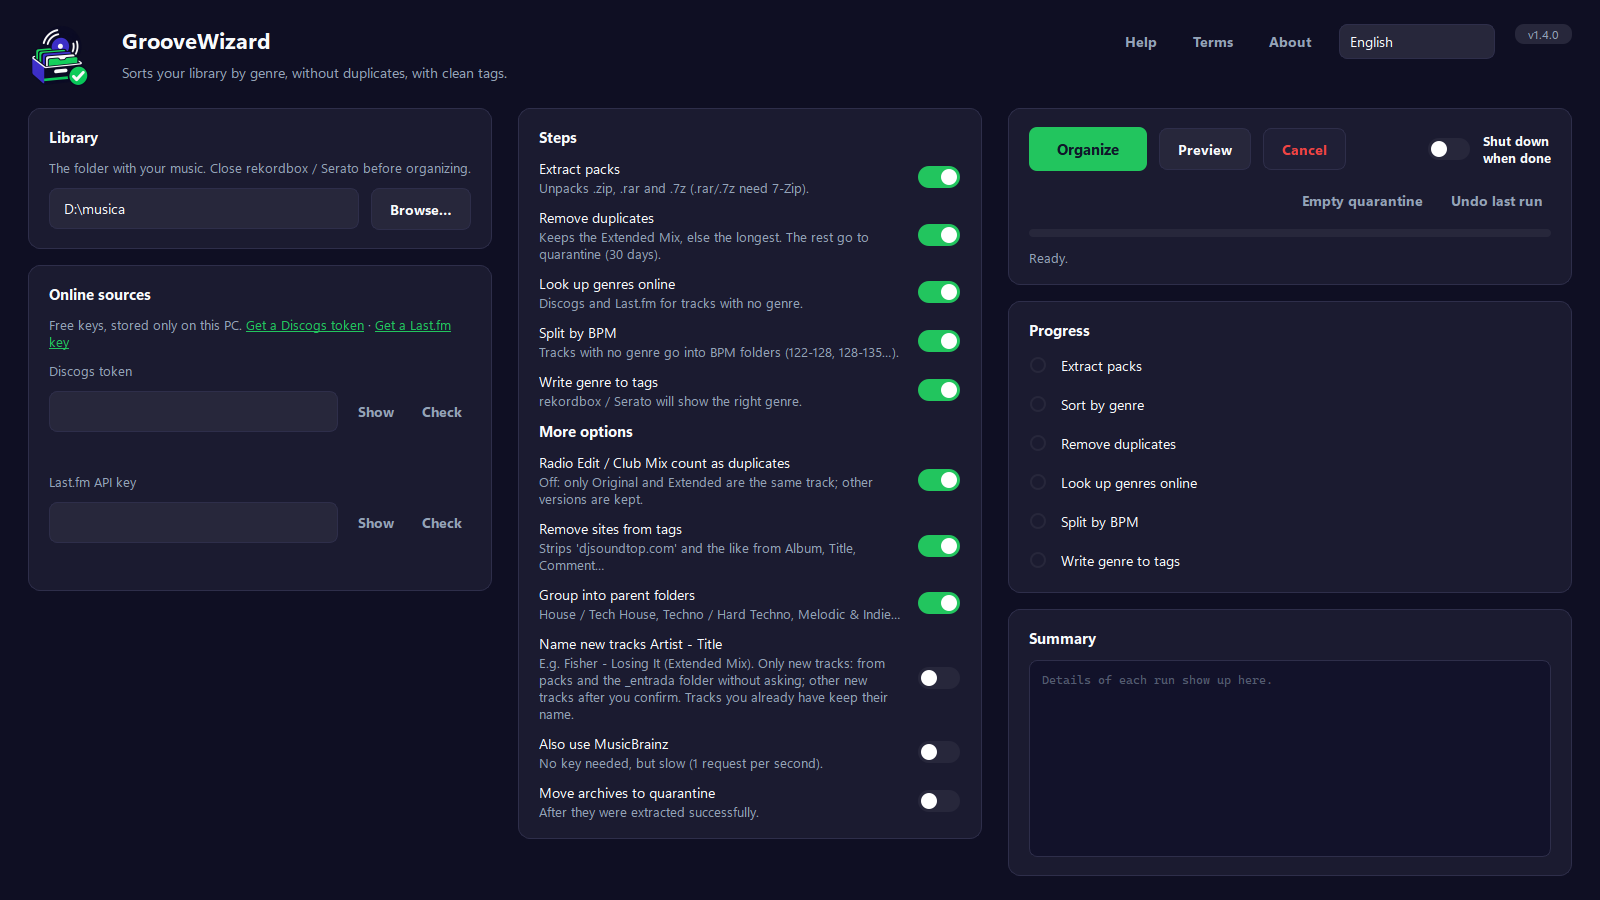
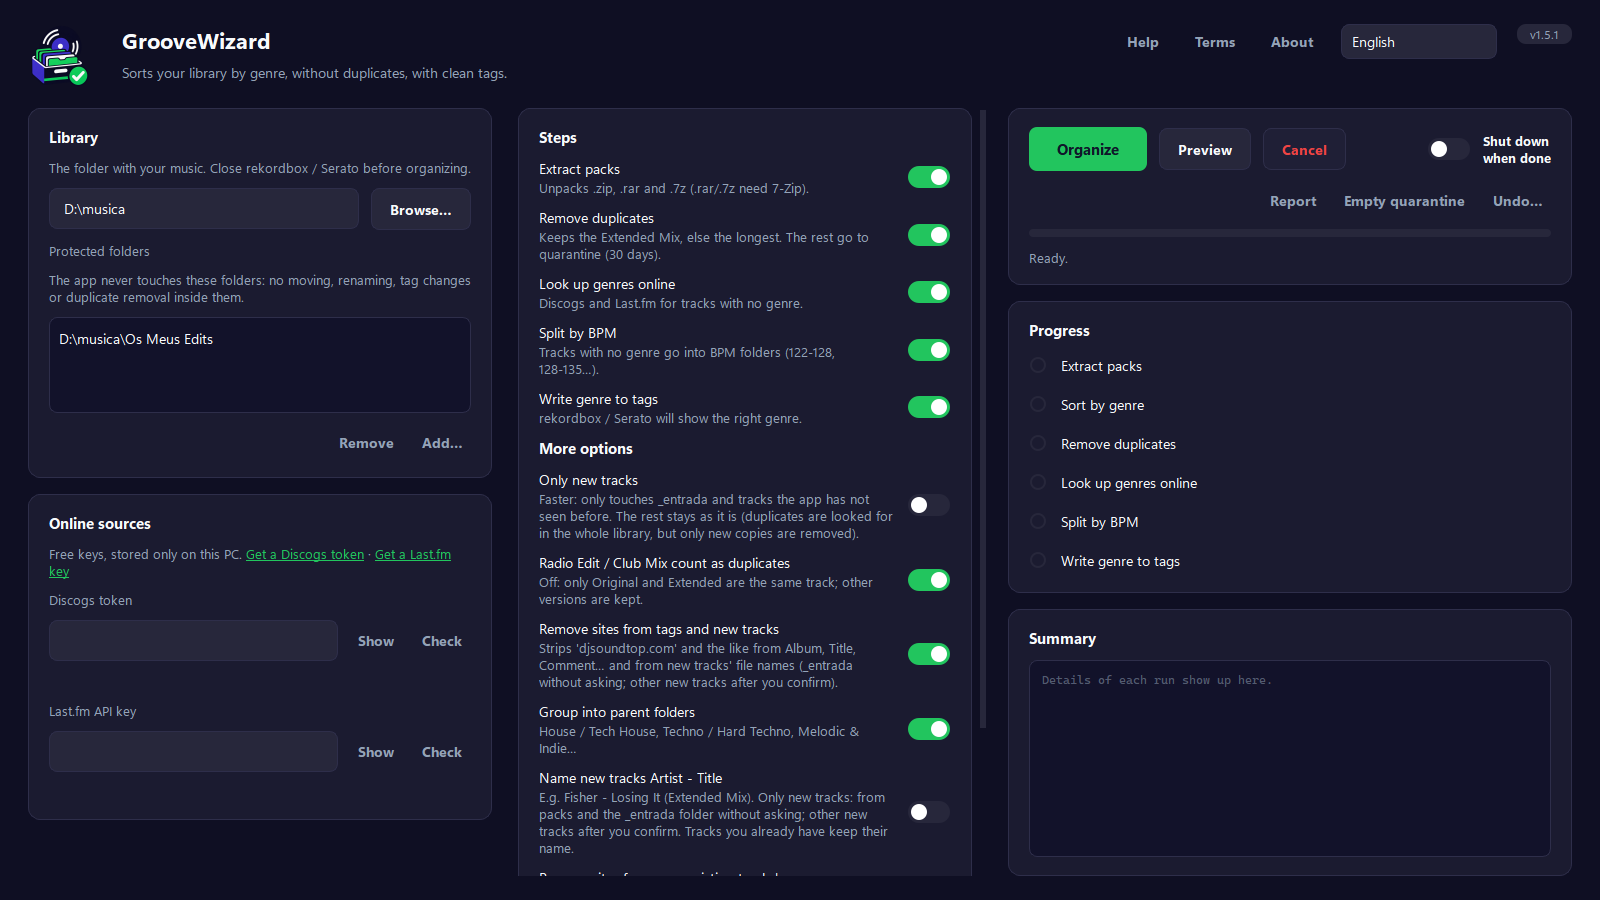
Capturas da 1.5 e aviso das faixas conhecidas na ajuda
- Capturas refeitas com dados de exemplo: pastas protegidas, Relatório, Desfazer…
- Novas: lista do que vai mudar (8-lista) e desfazer execuções (9-desfazer)
- Ajuda: a primeira organização com a 1.5 demora uns minutos a mais, uma só vez

diff --git a/organizador/ajuda.py b/organizador/ajuda.py
@@ -74,6 +74,10 @@ HELP = {
 <h3>Relatório</h3>
 <p><b>Relatório</b> analisa a biblioteca sem mexer em nada e guarda uma lista (abre no Excel) das faixas sem
    artista ou título, sem género, MP3 abaixo de 320 kbps, com menos de 1 minuto ou com tags estragadas.</p>
+<h3>Faixas conhecidas</h3>
+<p>A app lembra-se das faixas que já viu, para saber quais são novas. Na primeira organização com a versão 1.5.0
+   lê um pedaço de cada faixa para a reconhecer depois, mesmo que a mudes de pasta à mão. Numa biblioteca grande
+   isto demora uns minutos a mais, uma só vez (passo <i>A registar as faixas conhecidas</i>).</p>
 <h3>Enganei-me, e agora?</h3>
 <p><b>Desfazer…</b> mostra as últimas execuções. Escolhes até onde voltar; as mais recentes do que essa também são
    desfeitas, da mais nova para a mais antiga. Cada execução desfeita devolve os ficheiros ao sítio onde estavam, tira da quarentena
@@ -144,6 +148,10 @@ HELP = {
 <h3>Report</h3>
 <p><b>Report</b> looks at the library without changing anything and saves a list (opens in Excel) of tracks without
    artist or title, without genre, MP3 under 320 kbps, shorter than 1 minute or with damaged tags.</p>
+<h3>Known tracks</h3>
+<p>The app remembers the tracks it has seen, to tell which ones are new. The first time you organize with version 1.5.0
+   it reads a piece of every track so it can recognise it later, even if you move it by hand. In a big library this
+   takes a few extra minutes, only once (step <i>Recording known tracks</i>).</p>
 <h3>Made a mistake?</h3>
 <p><b>Undo…</b> lists the recent runs. Choose how far back to go; runs newer than that one are undone too, newest
    first. Each undone run puts files back where they were, takes removed duplicates and junk out of

diff --git a/README.md b/README.md
@@ -40,6 +40,8 @@ Called <i>Cratekeeper</i> up to 1.1.0; updating keeps settings, keys and history
 | A organizar | No fim |
 |---|---|
 | <img src="docs/2-a-organizar.png" alt="A organizar, com o progresso de cada passo"> | <img src="docs/3-resumo.png" alt="Resumo no fim da organização"> |
+| **Ver lista: o que vai mudar, faixa a faixa** | **Desfazer até uma execução antiga** |
+| <img src="docs/8-lista.png" alt="Lista do que vai mudar, com faixas desmarcadas"> | <img src="docs/9-desfazer.png" alt="Lista de execuções para desfazer"> |
 | **Ajuda dentro da app** | **Termos na primeira utilização (EN)** |
 | <img src="docs/4-ajuda.png" alt="Ajuda"> | <img src="docs/5-termos-en.png" alt="Termos e Condições em inglês"> |
 | **Aviso de versão nova** | **Interface em inglês** |
